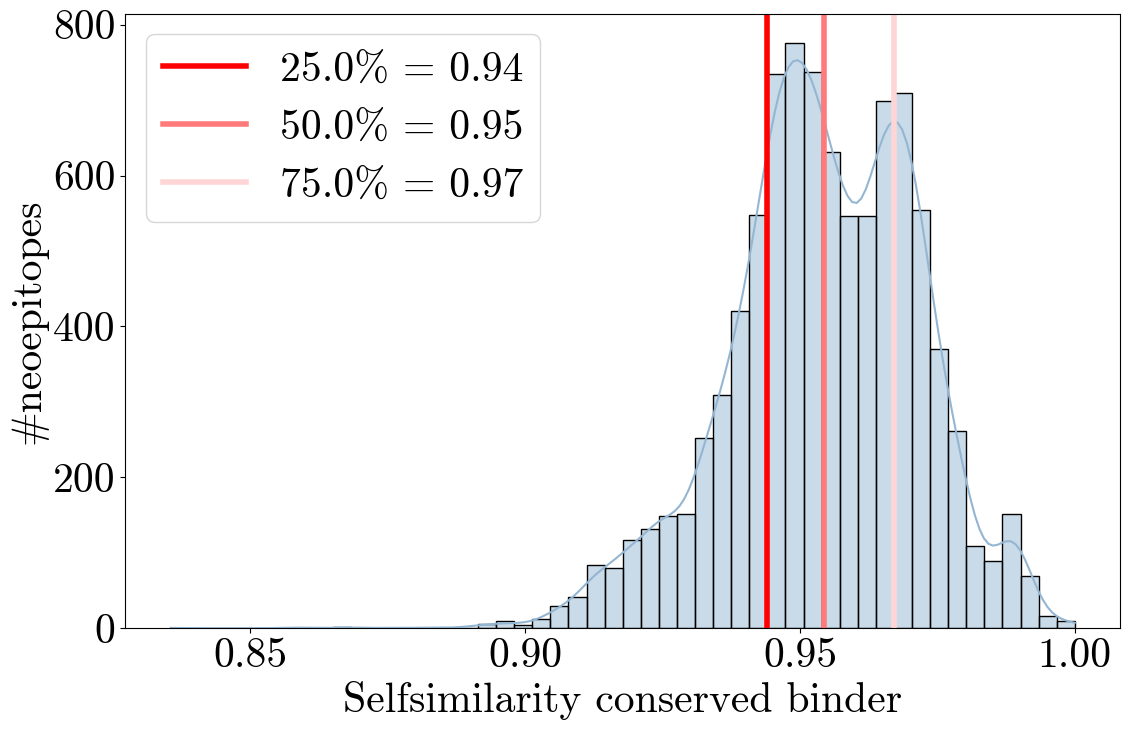
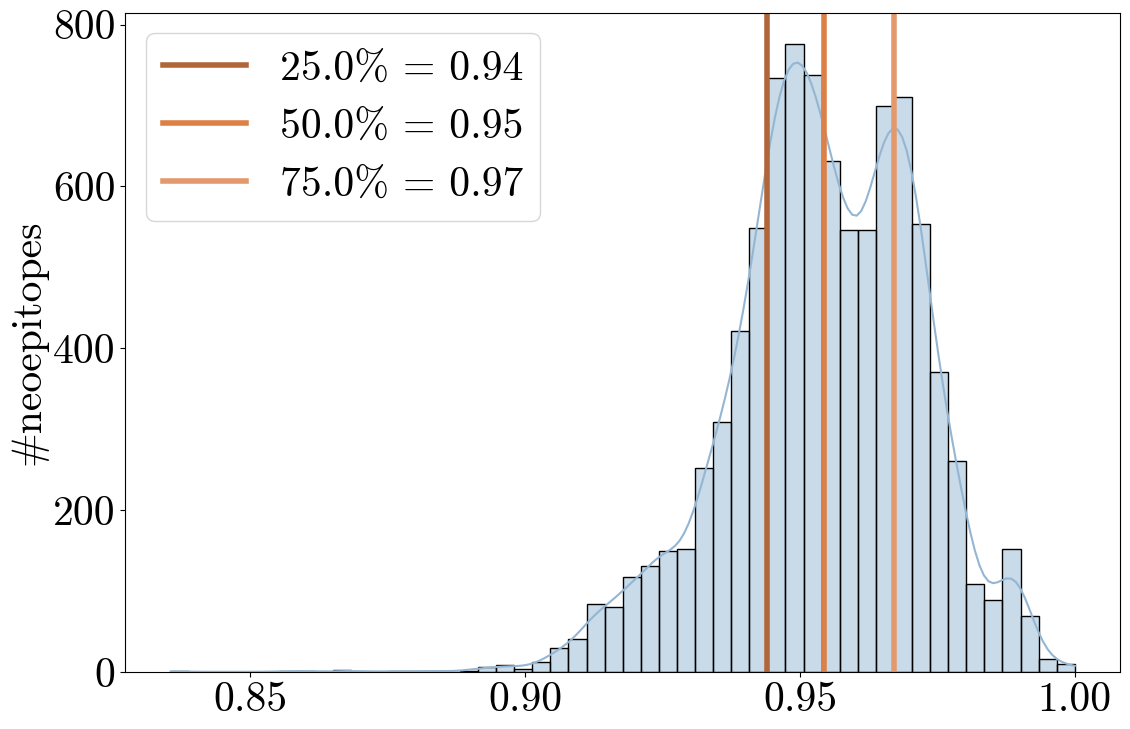
updated feature analysis

diff --git a/analysis/which_distribution.py b/analysis/which_distribution.py
@@ -1,12 +1,16 @@
 import os
 import pandas as pd
 from scipy import stats
-from helpers.get_data import get_feature_data
+from helpers.get_data import get_feature_data, get_relevant_features
 import sys
 from optparse import OptionParser
 import matplotlib.pyplot as plt
+from matplotlib import rc, rcParams
 import statsmodels.api as sm
 from statsmodels.graphics.gofplots import qqplot
+
+rc('font', **{'family': 'serif', 'serif': ['cmr10'], 'size': 20})
+rcParams['axes.unicode_minus'] = False
 
 output_dir = "/mnt/storage2/users/ahnelll1/master_thesis/NeoPrioProject/analysis/images/features/neofox/distributions"
 
@@ -15,32 +19,46 @@ def main(argv):
     desc = "Creates plots for neofox features."
     parser = OptionParser(usage=usage, description=desc)
     parser.add_option("--prefilter", action="store_true", dest="prefilter", default=False, help="If neoantigens shouldd be filtered by majority vote of binding tools")
-    parser.add_option("-f", "--feature", action="store", dest="feature", default=False, help="Feature Name")
     (options, args) = parser.parse_args()
     
     prefilter = options.prefilter
     cohorts = ['AxelMelanomaPhD', 'SomaticAndTreatment']
     
-    feature_data = get_feature_data(prefilter, cohorts)[options.feature].dropna()
-   
-    print((feature_data == 0).sum() / feature_data.size)
+    feature_data = get_feature_data(prefilter, cohorts)
+    features = get_relevant_features()
     
-    # descriptive statistics
-    print("mean:", feature_data.mean())
-    print("median:", feature_data.median())
-    print("mode:", feature_data.mode())
-    print("std:", feature_data.std())
-    print("skewness:", feature_data.skew())
-    print("kurtosis:", feature_data.kurtosis())
+    fig, axs = plt.subplots(ncols=3, nrows=4, figsize=(12,16), layout="constrained")
     
-    pvalue_normal = stats.kstest((feature_data - feature_data.mean()) / feature_data.std(), 'norm').pvalue
-    
-    print("Normal Distribution")
-    print(("YES" if pvalue_normal >0.05 else "NO"), pvalue_normal)
-    
-    fig = plt.figure(figsize=(12,8))
-    qqplot(feature_data, line='45')
-    plt.savefig(os.path.join(output_dir, options.feature + '_qqplot' + ('_prefilter' if prefilter else '') + '.png'))
+    for i, f in enumerate(features):
+        if f in ["NetMHC MT IC50 Score", "NetMHCpan MT IC50 Score", "MHCflurry MT IC50 Score"]:
+            continue
+        data = feature_data[f].dropna()
+        print(f)
+        
+        # descriptive statistics
+        print("\t mean:", data.mean())
+        print("\t median:", data.median())
+        print("\t mode:", data.mode())
+        print("\t std:", data.std())
+        print("\t skewness:", data.skew())
+        print("\t kurtosis:", data.kurtosis())
+        
+        pvalue_normal = stats.kstest((data - data.mean()) / data.std(), 'norm').pvalue
+        
+        print("\t Normal Distribution:", ("YES" if pvalue_normal >0.05 else "NO"), "with pvalue:", pvalue_normal)
+        print()
+        
+        ax = axs[int(i/3), i%3]
+
+        plot = qqplot(data, line ='45', ax=ax, marker='o', markerfacecolor='#94B6D2', markeredgecolor='#94B6D2')
+        ax.get_lines()[1].set_color("#968C8C")
+        ax.get_lines()[1].set_linewidth("2")
+        ax.get_lines()[1].set_linestyle("--")
+        ax.set_title(f.replace("_", " ").replace("imputed ", "").replace(" conserved binder", ""))
+    fig.delaxes(axs[3][2])
+    plt.tight_layout()
+    plt.savefig(os.path.join(output_dir, 'qqplots' + ('_prefilter' if prefilter else '') + '.png'))
+        
     
     
 if __name__ == "__main__":

diff --git a/analysis/feature_comparison_correlations.py b/analysis/feature_comparison_correlations.py
@@ -1,10 +1,15 @@
 import os
+import pandas as pd
 import itertools
 from helpers.get_data import get_feature_data, get_relevant_features
 import sys
 from optparse import OptionParser
 import seaborn as sns
+from scipy.stats import spearmanr
 import matplotlib.pyplot as plt
+from matplotlib import rc, rcParams
+rc('font', **{'family': 'serif', 'serif': ['cmr10'], 'size': 15})
+rcParams['axes.unicode_minus'] = False
   
 
 output_dir = "/mnt/storage2/users/ahnelll1/master_thesis/NeoPrioProject/analysis/images/features"
@@ -21,10 +26,17 @@ def main(argv):
     
     relevant_features = get_relevant_features()
     feature_data = get_feature_data(prefilter, cohorts)
+    rel_features_df = feature_data.loc[:, relevant_features]
+    rel_features_df.columns = rel_features_df.columns.str.replace('_', ' ')
+    corr = spearmanr(rel_features_df, nan_policy='omit').statistic
+    names = [f.replace('_', ' ') for f in relevant_features]
+    corr_df = pd.DataFrame(corr, columns=names, index=names)
     
-    sns.heatmap(feature_data.loc[:, relevant_features].corr(numeric_only=True), cmap="YlGnBu")
-
-    plt.savefig(os.path.join(output_dir, 'feature_correlation' + ('_prefilter' if prefilter else '') + '.png'), bbox_inches='tight', dpi=100)
+    heatmap = sns.heatmap(corr_df, cmap=sns.diverging_palette(42, 207, 60, 60, as_cmap=True), vmin=-1, vmax=1)
+    heatmap.set_xticklabels(heatmap.get_xticklabels(), rotation=45, horizontalalignment='right')
+    
+    plt.savefig(os.path.join(output_dir, 'feature_correlation' + ('_prefilter' if prefilter else '') + '.png'), bbox_inches='tight', dpi=300)
+    plt.close()
     
     f = open(os.path.join(output_dir, "features_correlation_coefficients" + ('_prefilter' if prefilter else '') + ".txt"), "w")
     for cohort in cohorts:
@@ -44,15 +56,9 @@ def main(argv):
 
     f.write("merged\n")        
     for f1, f2 in itertools.combinations(relevant_features, 2):
-        corr_p = feature_data[f1].corr(feature_data[f2], method='pearson') 
-        corr_k = feature_data[f1].corr(feature_data[f2], method='kendall')
-        corr_s = feature_data[f1].corr(feature_data[f2], method='spearman') 
-        if corr_p >= 0.4:
-            f.write("\t" + f1 + " " + f2 + " pearson correlation: " + str(corr_p) + "\n")
-        if corr_k >= 0.4:
-            f.write("\t" + f1 + " " + f2 + " kendall correlation: " + str(corr_k) + "\n")
-        if corr_s >= 0.4:
-            f.write("\t" + f1 + " " + f2 + " spearman correlation: " + str(corr_s) + "\n")
+        corr_s = spearmanr(feature_data[f1], feature_data[f2], nan_policy='omit')
+        if corr_s.pvalue < 0.05 and abs(corr_s.statistic) >= 0.4:
+            f.write(f"\t{f1} vs {f2} Spearman Correlation (at least moderate): {corr_s.statistic}, p-value {corr_s.pvalue}\n")
     f.close()
     
 if __name__ == "__main__":

diff --git a/analysis/features_neofox_plots.py b/analysis/features_neofox_plots.py
@@ -67,19 +67,17 @@ def main(argv):
     rc('font', **{'family': 'serif', 'serif': ['cmr10'], 'size': 30})
     rcParams['axes.unicode_minus'] = False
     for i, feature in enumerate(relevant_features):
+        plt.clf()
         plt.figure(figsize=(12,8))
         
         # histogram 
         feature_df = feature_data[feature['name']].dropna()
-        print(feature['name'])
-        print(min(feature_df))
-        print(max(feature_df))
         if options.use_interval and 'interval' in feature:
             feature_df_hist = feature_df[(feature['interval'][0] <= feature_df) & (feature_df <= feature['interval'][1])]
         else:
             feature_df_hist = feature_df
         sns.histplot(feature_df_hist, kde=True, bins=50, color="#94B6D2")
-        for q, c in zip([0.25, 0.5, 0.75], ['#ff0000', '#ff7b7b', '#ffd5d5']):
+        for q, c in zip([0.25, 0.5, 0.75], ['#b16639', '#dd8047', '#e4996c']):
             if feature['quantile'] == 'upper':
                 q = 1-q
             quant = np.quantile(feature_df, q)
@@ -87,12 +85,12 @@ def main(argv):
         if options.use_interval and 'interval' in feature:
             plt.xlim(feature['interval'])
         plt.ylabel("#neoepitopes")
-        plt.xlabel(feature['name'].replace("_", " "))
+        plt.xlabel(None)
         plt.legend()
 
         plt.tight_layout()
         
         plt.savefig(os.path.join(output_dir, "histograms", feature['name'] + '_histogram_' + ('interval_' if options.use_interval and 'interval' in feature else '') + '_'.join(cohorts) + ('_prefilter' if prefilter else '') + '.png'), bbox_inches='tight', dpi=100)
-    
+        plt.close()
 if __name__ == "__main__":
     main(sys.argv)

diff --git a/analysis/helpers/get_data.py b/analysis/helpers/get_data.py
@@ -85,7 +85,7 @@ def get_relevant_features_neofox(details=False):
             }
         },{
             'name': 'MixMHCpred_score', 
-            'quantile': 'lower',
+            'quantile': 'upper',
             'cutoff': {
                 'use_percentage': True,
                 'good_distribution': True
@@ -134,7 +134,7 @@ def get_relevant_features_neofox(details=False):
             }
         },{
             'name': 'PRIME_score', 
-            'quantile': 'lower',
+            'quantile': 'upper',
             'cutoff': {
                 'use_percentage': True,
                 'good_distribution': True
